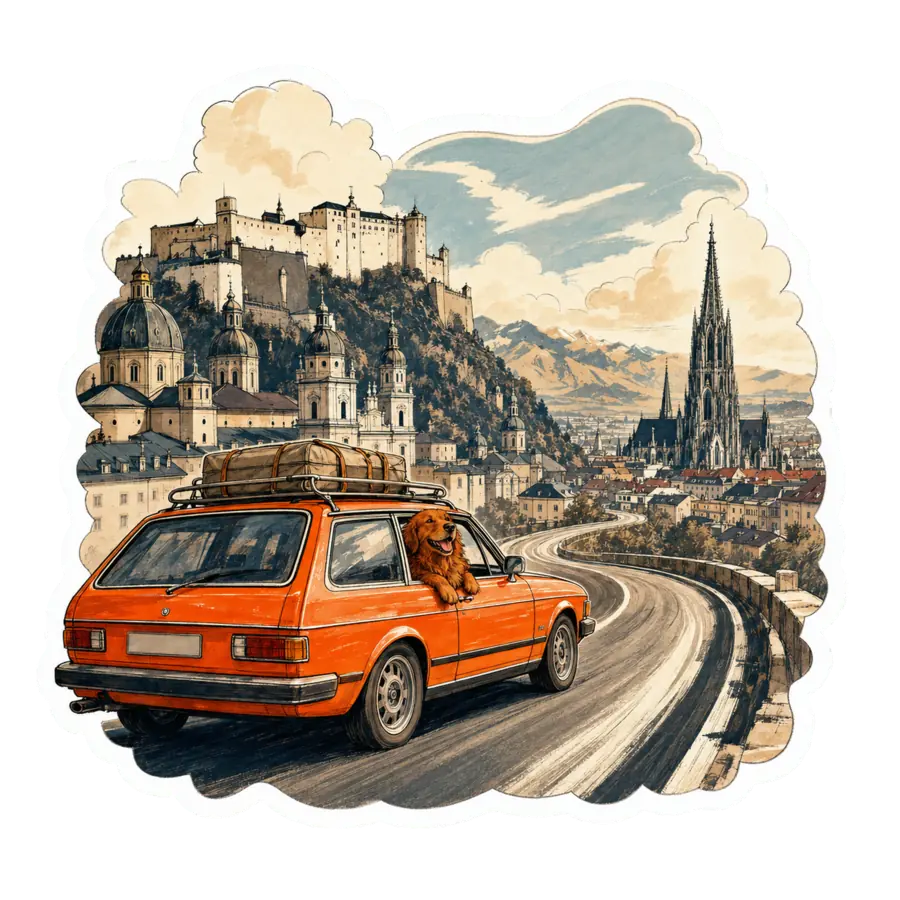
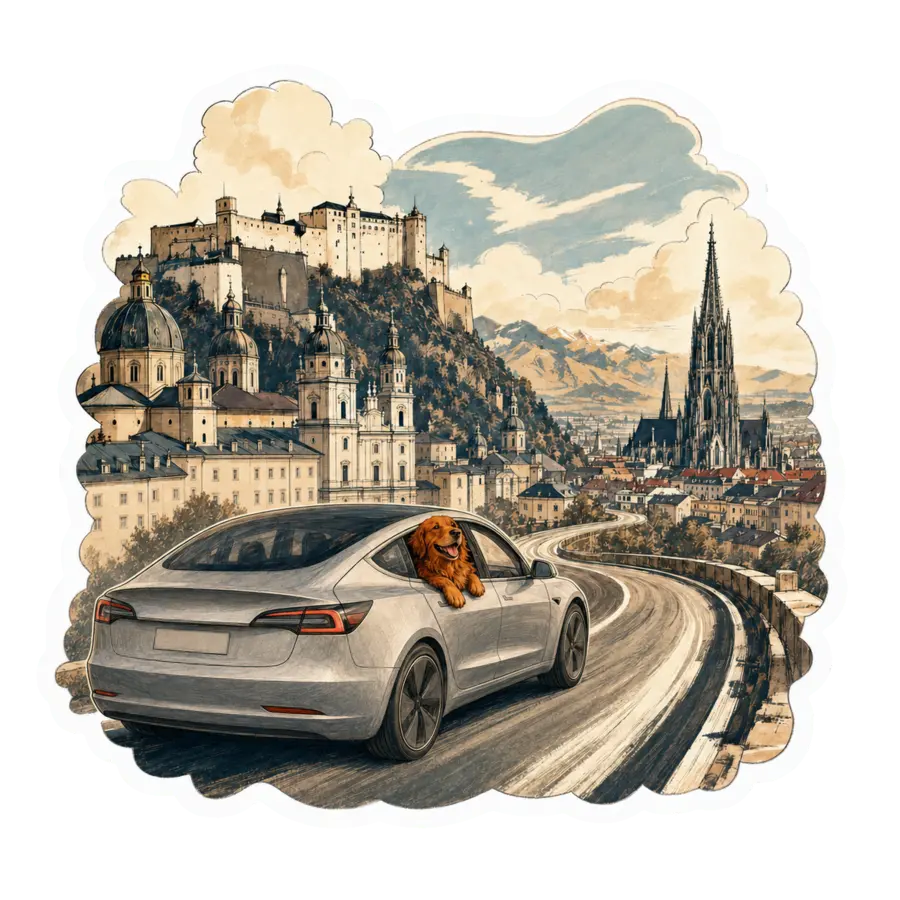
Add real Austria photos and Quicksilver Tesla

diff --git a/claude/roadtrip-austria-2026/index.html b/claude/roadtrip-austria-2026/index.html
@@ -21,7 +21,7 @@
     <link rel="preload" href="/assets/fonts/inter-var-latin.woff2" as="font" type="font/woff2" crossorigin>
     <link rel="preload" href="./assets/stage-03-hintertux.webp" as="image" type="image/webp">
     <link rel="stylesheet" href="../style.css?v=20260803-triplog">
-    <link rel="stylesheet" href="./roadtrip.css?v=20260803-triplog">
+    <link rel="stylesheet" href="./roadtrip.css?v=20260803-photojournal">
     <script>(function(){try{var t=localStorage.getItem('claude-space-theme')||'dark';document.documentElement.dataset.ctheme=t;}catch(e){}})()</script>
 </head>
 <body class="claude-space roadtrip-page">
@@ -40,19 +40,21 @@
             <div class="trip-hero__copy">
                 <p class="eyebrow">/claude/roadtrip-austria-2026</p>
                 <h1 id="trip-title">Roadtrip Austria 2026</h1>
-                <p class="trip-lede">Le carnet vit avec le voyage. Samedi à Tux et dimanche au Schlegeis sont dans la boîte; aujourd’hui, Pampy monte avec nous vers le glacier d’Hintertux.</p>
+                <p class="trip-lede">Le carnet vit avec le voyage. Samedi au Tirolerhof et dimanche au Schlegeis sont dans la boîte; aujourd’hui, Pampy monte avec nous vers le glacier d’Hintertux.</p>
                 <ul class="trip-facts">
                     <li><strong>7</strong><span>nuits</span></li>
                     <li><strong>5</strong><span>étapes après Tux</span></li>
                     <li><strong>40 kg</strong><span>de golden roux fauve</span></li>
                     <li><strong>8 août</strong><span>retour à Hettange</span></li>
+                    <li><strong>Model 3</strong><span>Highland Quicksilver</span></li>
+                    <li><strong>2 100 m</strong><span>atteints au Schlegeis</span></li>
                 </ul>
             </div>
             <figure class="trip-hero__visual">
                 <div class="hero-stickers">
                     <img src="./assets/stage-02-schlegeis.webp" width="900" height="900" alt="Pampy roux fauve en randonnée au-dessus du lac de Schlegeis">
                     <img src="./assets/stage-03-hintertux.webp" width="900" height="900" alt="Pampy roux fauve dans une télécabine devant le glacier d’Hintertux">
-                    <img src="./assets/stage-05-grossglockner-gosau.webp" width="900" height="900" alt="Pampy roux fauve sur la route panoramique du Grossglockner">
+                    <img src="./assets/stage-05-grossglockner-gosau.webp?v=20260803-tesla" width="900" height="900" alt="Pampy roux fauve et la Tesla Model 3 Quicksilver sur la route panoramique du Grossglockner">
                 </div>
                 <figcaption>Deux jours vécus, six chapitres encore ouverts.</figcaption>
             </figure>
@@ -140,7 +142,7 @@
                         <header class="day-head">
                             <div class="day-date"><span>J1</span><time datetime="2026-08-01">Samedi 1 août</time></div>
                             <div class="day-title"><p class="day-route">Hettange-Grande → Tux</p><h3>Arriver, respirer, ne rien prouver</h3></div>
-                            <figure class="day-sticker"><img src="./assets/stage-01-tux.webp" width="900" height="900" loading="lazy" alt="Pampy roux fauve se dégourdit près d’un chalet et de la voiture orange à Tux"></figure>
+                            <figure class="day-sticker"><img src="./assets/stage-01-tux.webp?v=20260803-tesla" width="900" height="900" loading="lazy" alt="Pampy roux fauve se dégourdit près d’un chalet et de la Tesla Model 3 Quicksilver à Tux"></figure>
                             <label class="day-status-label">Déroulé
                                 <select id="status-d1" data-day-status="d1" aria-label="Déroulé du samedi 1 août">
                                     <option value="planned">Prévu</option>
@@ -152,8 +154,8 @@
                         </header>
                         <div class="day-body">
                             <div class="day-plan">
-                                <p class="day-meta"><span>Route longue</span><span class="dog-badge">Avec Pampy</span><span>Nuit 1/3 à Tux</span></p>
-                                <p>La longue route, l’installation et la première pause de Pampy se sont déroulées comme prévu. Une arrivée tranquille qui a gardé de l’énergie pour la montagne.</p>
+                                <p class="day-meta"><span>Route longue</span><span class="dog-badge">Avec Pampy</span><span>Tesla Model 3 Quicksilver</span><span>Nuit 1/3 à Tux</span></p>
+                                <p>La longue route en Tesla, l’installation au Tirolerhof et la première pause de Pampy se sont déroulées comme prévu. Une arrivée tranquille qui a gardé de l’énergie pour la montagne.</p>
                                 <div class="day-fallback"><strong>Ce qu’on retient</strong> Après la route, marcher, boire, manger et dormir comptaient davantage qu’une activité de plus.</div>
                             </div>
                             <fieldset class="checklist">
@@ -163,6 +165,26 @@
                                 <div class="check-row"><input id="d1-micro-walk" type="checkbox" data-check data-optional="true"><label for="d1-micro-walk"><strong>Micro-balade si le ciel le permet</strong><span>Bonus, jamais une obligation.</span></label></div>
                             </fieldset>
                         </div>
+                        <section class="trip-gallery trip-gallery--tux" aria-labelledby="tux-gallery-title">
+                            <div class="trip-gallery__heading">
+                                <p class="eyebrow">Photos du samedi</p>
+                                <h4 id="tux-gallery-title">Juste à côté du Tirolerhof</h4>
+                            </div>
+                            <div class="trip-gallery__grid">
+                                <figure class="trip-photo">
+                                    <a href="./assets/tux-tirolerhof-walk-real.webp" aria-label="Agrandir la promenade près du Tirolerhof">
+                                        <img src="./assets/tux-tirolerhof-walk-real.webp" width="1536" height="1152" loading="lazy" alt="Pampy marche le long du Tuxbach dans la vallée verte, juste à côté du Tirolerhof à Tux">
+                                    </a>
+                                    <figcaption>La promenade de Pampy le long du Tuxbach.</figcaption>
+                                </figure>
+                                <figure class="trip-photo">
+                                    <a href="./assets/tux-tirolerhof-stream-real.webp" aria-label="Agrandir la vue du Tuxbach">
+                                        <img src="./assets/tux-tirolerhof-stream-real.webp" width="1152" height="1536" loading="lazy" alt="Le Tuxbach traverse les prés et les montagnes près du Tirolerhof à Tux">
+                                    </a>
+                                    <figcaption>Le torrent et les prés au pied de l’hôtel.</figcaption>
+                                </figure>
+                            </div>
+                        </section>
                     </article>
                 </li>
 
@@ -190,9 +212,41 @@
                                 <div class="check-row"><input id="d2-pampy-care" type="checkbox" data-check data-optional="true" checked><label for="d2-pampy-care"><strong>Pampy a adoré la randonnée</strong><span>Pattes, eau et récupération après l’effort.</span></label></div>
                             </fieldset>
                         </div>
+                        <section class="trip-gallery trip-gallery--schlegeis" aria-labelledby="schlegeis-gallery-title">
+                            <div class="trip-gallery__heading">
+                                <p class="eyebrow">Photos du dimanche</p>
+                                <h4 id="schlegeis-gallery-title">Le Schlegeis, pour de vrai</h4>
+                            </div>
+                            <div class="trip-gallery__grid">
+                                <figure class="trip-photo trip-photo--panorama">
+                                    <a href="./assets/schlegeis-panorama-real.webp" aria-label="Agrandir le panorama du Schlegeis">
+                                        <img src="./assets/schlegeis-panorama-real.webp" width="1536" height="1152" loading="lazy" alt="Panorama du lac turquoise de Schlegeis entouré de sommets et de glaciers sous de grands nuages blancs">
+                                    </a>
+                                    <figcaption>Le lac turquoise, les glaciers et le sentier qui prend de la hauteur.</figcaption>
+                                </figure>
+                                <figure class="trip-photo">
+                                    <a href="./assets/schlegeis-pampy-overlook-real.webp" aria-label="Agrandir Pampy au-dessus du Schlegeis">
+                                        <img src="./assets/schlegeis-pampy-overlook-real.webp" width="1152" height="1536" loading="lazy" alt="Pampy, golden retriever roux fauve, contemple le lac de Schlegeis depuis les rochers en altitude">
+                                    </a>
+                                    <figcaption>Pampy prend la mesure du paysage.</figcaption>
+                                </figure>
+                                <figure class="trip-photo">
+                                    <a href="./assets/schlegeis-pampy-trough-real.webp" aria-label="Agrandir Pampy dans l’abreuvoir">
+                                        <img src="./assets/schlegeis-pampy-trough-real.webp" width="1152" height="1536" loading="lazy" alt="Pampy se rafraîchit avec bonheur dans un abreuvoir en bois pendant la randonnée au Schlegeis">
+                                    </a>
+                                    <figcaption>Pause fraîcheur quatre étoiles.</figcaption>
+                                </figure>
+                                <figure class="trip-photo">
+                                    <a href="./assets/schlegeis-nicolas-pampy-real.webp" aria-label="Agrandir Nicolas et Pampy face au lac">
+                                        <img src="./assets/schlegeis-nicolas-pampy-real.webp" width="1152" height="1536" loading="lazy" alt="Nicolas enlace Pampy debout devant le lac et les montagnes de Schlegeis">
+                                    </a>
+                                    <figcaption>Le duo devant le réservoir, avant la montée.</figcaption>
+                                </figure>
+                            </div>
+                        </section>
                         <figure class="trip-memory">
-                            <img src="./assets/schlegeis-postcard-2026.webp" width="1440" height="960" loading="lazy" alt="Carte postale vintage du Schlegeis montrant Nicolas et Pampy roux fauve face au lac de barrage">
-                            <figcaption><strong>Carte postale du dimanche</strong><span>Schlegeis 131, lac turquoise et arrivée à 2 100 m avec Pampy.</span></figcaption>
+                            <img src="./assets/schlegeis-postcard-cutout.webp" width="1536" height="1024" loading="lazy" alt="Carte postale vintage détourée du Schlegeis montrant Nicolas et Pampy roux fauve face au lac de barrage">
+                            <figcaption><strong>La version carte postale</strong><span>Schlegeis 131, lac turquoise et arrivée à 2 100 m avec Pampy.</span></figcaption>
                         </figure>
                     </article>
                 </li>
@@ -230,7 +284,7 @@
                         <header class="day-head">
                             <div class="day-date"><span>J4</span><time datetime="2026-08-04">Mardi 4 août</time></div>
                             <div class="day-title"><p class="day-route">Tux → Krimml → Heiligenblut</p><h3>Quitter Tux par les grandes eaux</h3></div>
-                            <figure class="day-sticker"><img src="./assets/stage-04-krimml-heiligenblut.webp" width="900" height="900" loading="lazy" alt="Pampy roux fauve devant les chutes de Krimml et la route vers Heiligenblut"></figure>
+                            <figure class="day-sticker"><img src="./assets/stage-04-krimml-heiligenblut.webp?v=20260803-tesla" width="900" height="900" loading="lazy" alt="Pampy roux fauve et la Tesla Model 3 Quicksilver devant les chutes de Krimml et la route vers Heiligenblut"></figure>
                             <label class="day-status-label">Déroulé
                                 <select id="status-d4" data-day-status="d4" aria-label="Déroulé du mardi 4 août"><option value="planned">Prévu</option><option value="on-track">Comme prévu</option><option value="adapted">Adapté</option><option value="review">À revoir</option></select>
                             </label>
@@ -257,7 +311,7 @@
                         <header class="day-head">
                             <div class="day-date"><span>J5</span><time datetime="2026-08-05">Mercredi 5 août</time></div>
                             <div class="day-title"><p class="day-route">Grossglockner → Gosau</p><h3>La plus belle route, si elle s’ouvre</h3></div>
-                            <figure class="day-sticker"><img src="./assets/stage-05-grossglockner-gosau.webp" width="900" height="900" loading="lazy" alt="Pampy roux fauve devant les lacets du Grossglockner et la Pasterze"></figure>
+                            <figure class="day-sticker"><img src="./assets/stage-05-grossglockner-gosau.webp?v=20260803-tesla" width="900" height="900" loading="lazy" alt="Pampy roux fauve et la Tesla Model 3 Quicksilver devant les lacets du Grossglockner et la Pasterze"></figure>
                             <label class="day-status-label">Déroulé
                                 <select id="status-d5" data-day-status="d5" aria-label="Déroulé du mercredi 5 août"><option value="planned">Prévu</option><option value="on-track">Comme prévu</option><option value="adapted">Adapté</option><option value="review">À revoir</option></select>
                             </label>
@@ -312,7 +366,7 @@
                         <header class="day-head">
                             <div class="day-date"><span>J7</span><time datetime="2026-08-07">Vendredi 7 août</time></div>
                             <div class="day-title"><p class="day-route">Salzburg → Ulm</p><h3>Une matinée baroque, puis cap à l’ouest</h3></div>
-                            <figure class="day-sticker"><img src="./assets/stage-07-salzburg-ulm.webp" width="900" height="900" loading="lazy" alt="Pampy roux fauve traverse Salzburg puis reprend la route vers Ulm"></figure>
+                            <figure class="day-sticker"><img src="./assets/stage-07-salzburg-ulm.webp?v=20260803-tesla" width="900" height="900" loading="lazy" alt="Pampy roux fauve voyage à la fenêtre passager de la Tesla Model 3 Quicksilver entre Salzburg et Ulm"></figure>
                             <label class="day-status-label">Déroulé
                                 <select id="status-d7" data-day-status="d7" aria-label="Déroulé du vendredi 7 août"><option value="planned">Prévu</option><option value="on-track">Comme prévu</option><option value="adapted">Adapté</option><option value="review">À revoir</option></select>
                             </label>
@@ -339,7 +393,7 @@
                         <header class="day-head">
                             <div class="day-date"><span>J8</span><time datetime="2026-08-08">Samedi 8 août</time></div>
                             <div class="day-title"><p class="day-route">Ulm → Hettange-Grande</p><h3>Rentrer avec de la marge</h3></div>
-                            <figure class="day-sticker"><img src="./assets/stage-08-hettange-home.webp" width="900" height="900" loading="lazy" alt="Pampy roux fauve rentre à Hettange-Grande dans la voiture orange"></figure>
+                            <figure class="day-sticker"><img src="./assets/stage-08-hettange-home.webp?v=20260803-tesla" width="900" height="900" loading="lazy" alt="Pampy roux fauve rentre à Hettange-Grande avec la Tesla Model 3 Quicksilver"></figure>
                             <label class="day-status-label">Déroulé
                                 <select id="status-d8" data-day-status="d8" aria-label="Déroulé du samedi 8 août"><option value="planned">Prévu</option><option value="on-track">Comme prévu</option><option value="adapted">Adapté</option><option value="review">À revoir</option></select>
                             </label>

diff --git a/claude/roadtrip-austria-2026/roadtrip.css b/claude/roadtrip-austria-2026/roadtrip.css
@@ -699,23 +699,97 @@ body.roadtrip-page {
   color: var(--ink);
 }
 
-.trip-memory {
+.trip-gallery {
+  margin: 40px 0 0 169px;
+  padding-top: 24px;
+  border-top: 1px solid var(--border);
+}
+
+.trip-gallery__heading {
+  display: flex;
+  align-items: baseline;
+  justify-content: space-between;
+  gap: 20px;
+  margin-bottom: 18px;
+}
+
+.trip-gallery__heading .eyebrow {
+  margin-bottom: 0;
+}
+
+.trip-gallery__heading h4 {
+  margin: 0;
+  color: var(--ink);
+  font-family: var(--trip-serif);
+  font-size: clamp(1.35rem, 2.4vw, 2rem);
+  font-weight: 600;
+  line-height: 1.1;
+  text-align: right;
+}
+
+.trip-gallery__grid {
   display: grid;
-  grid-template-columns: minmax(0, 1.45fr) minmax(210px, 0.55fr);
-  gap: 0;
-  align-items: stretch;
-  margin: 34px 0 0 169px;
+  grid-template-columns: repeat(12, minmax(0, 1fr));
+  gap: 18px;
+  align-items: start;
+}
+
+.trip-photo {
+  grid-column: span 4;
+  min-width: 0;
+  margin: 0;
+}
+
+.trip-gallery--tux .trip-photo:first-child {
+  grid-column: span 8;
+}
+
+.trip-photo--panorama {
+  grid-column: 1 / -1;
+}
+
+.trip-photo a {
+  display: block;
   overflow: hidden;
   border: 1px solid var(--border-strong);
   border-radius: var(--radius);
-  background: var(--bg-raised);
+  background: var(--bg-inset);
+}
+
+.trip-photo a:focus-visible {
+  outline: 2px solid var(--accent);
+  outline-offset: 4px;
+}
+
+.trip-photo img {
+  display: block;
+  width: 100%;
+  height: auto;
+  transition: transform 280ms ease;
+}
+
+.trip-photo figcaption {
+  margin-top: 8px;
+  color: var(--muted);
+  font-size: 0.72rem;
+  line-height: 1.45;
+}
+
+.trip-memory {
+  display: grid;
+  grid-template-columns: minmax(0, 1.45fr) minmax(210px, 0.55fr);
+  gap: clamp(22px, 4vw, 52px);
+  align-items: center;
+  margin: 52px 0 0 169px;
+  padding-top: 16px;
 }
 
 .trip-memory img {
   display: block;
   width: 100%;
-  height: 100%;
-  object-fit: cover;
+  height: auto;
+  filter: drop-shadow(0 20px 22px color-mix(in srgb, var(--bg-inset) 58%, transparent));
+  transform: rotate(-1.2deg);
 }
 
 .trip-memory figcaption {
@@ -724,7 +798,7 @@ body.roadtrip-page {
   justify-content: center;
   gap: 8px;
   padding: clamp(20px, 3vw, 34px);
-  border-left: 1px solid var(--border);
+  border-left: 2px solid var(--brand);
 }
 
 .trip-memory figcaption strong {
@@ -906,6 +980,10 @@ body.roadtrip-page {
     transition: color 160ms ease, transform 160ms ease;
   }
 
+  .trip-photo a:hover img {
+    transform: scale(1.018);
+  }
+
   .text-link:hover,
   .source-groups a:hover {
     transform: translateX(2px);
@@ -966,6 +1044,10 @@ body.roadtrip-page {
   }
 
   .trip-memory {
+    margin-left: 140px;
+  }
+
+  .trip-gallery {
     margin-left: 140px;
   }
 
@@ -1078,6 +1160,33 @@ body.roadtrip-page {
     margin-left: 0;
   }
 
+  .trip-gallery {
+    margin-left: 0;
+  }
+
+  .trip-gallery__heading {
+    display: block;
+  }
+
+  .trip-gallery__heading .eyebrow {
+    margin-bottom: 7px;
+  }
+
+  .trip-gallery__heading h4 {
+    text-align: left;
+  }
+
+  .trip-gallery__grid {
+    grid-template-columns: 1fr;
+    gap: 22px;
+  }
+
+  .trip-photo,
+  .trip-gallery--tux .trip-photo:first-child,
+  .trip-photo--panorama {
+    grid-column: 1;
+  }
+
   .trip-memory figcaption {
     border-top: 1px solid var(--border);
     border-left: 0;
@@ -1182,7 +1291,8 @@ body.roadtrip-page {
   }
 
   .text-link,
-  .source-groups a {
+  .source-groups a,
+  .trip-photo img {
     transition: none;
   }
 }

diff --git a/CHANGELOG.md b/CHANGELOG.md
@@ -7,6 +7,12 @@ Historique des interventions sur le site, la plus récente en premier.
 
 ## 2026-08-03 - Roadtrip Austria devient un journal vivant
 
+- Six photos prises pendant le voyage rejoignent les journées de Tux et du
+  Schlegeis. La carte postale du dimanche est désormais détourée et flotte sur
+  le carnet sans fond rectangulaire.
+- La voiture illustrée devient la véritable Tesla Model 3 Highland Quicksilver
+  du voyage, sans modifier les photos réelles. Pampy conserve partout son
+  pelage roux fauve profond.
 - Samedi à Tux et la grande randonnée de dimanche au Schlegeis, jusqu’à
   2 100 m avec Pampy, sont désormais consignés comme réalisés. La carte
   postale du Schlegeis rejoint le carnet.
